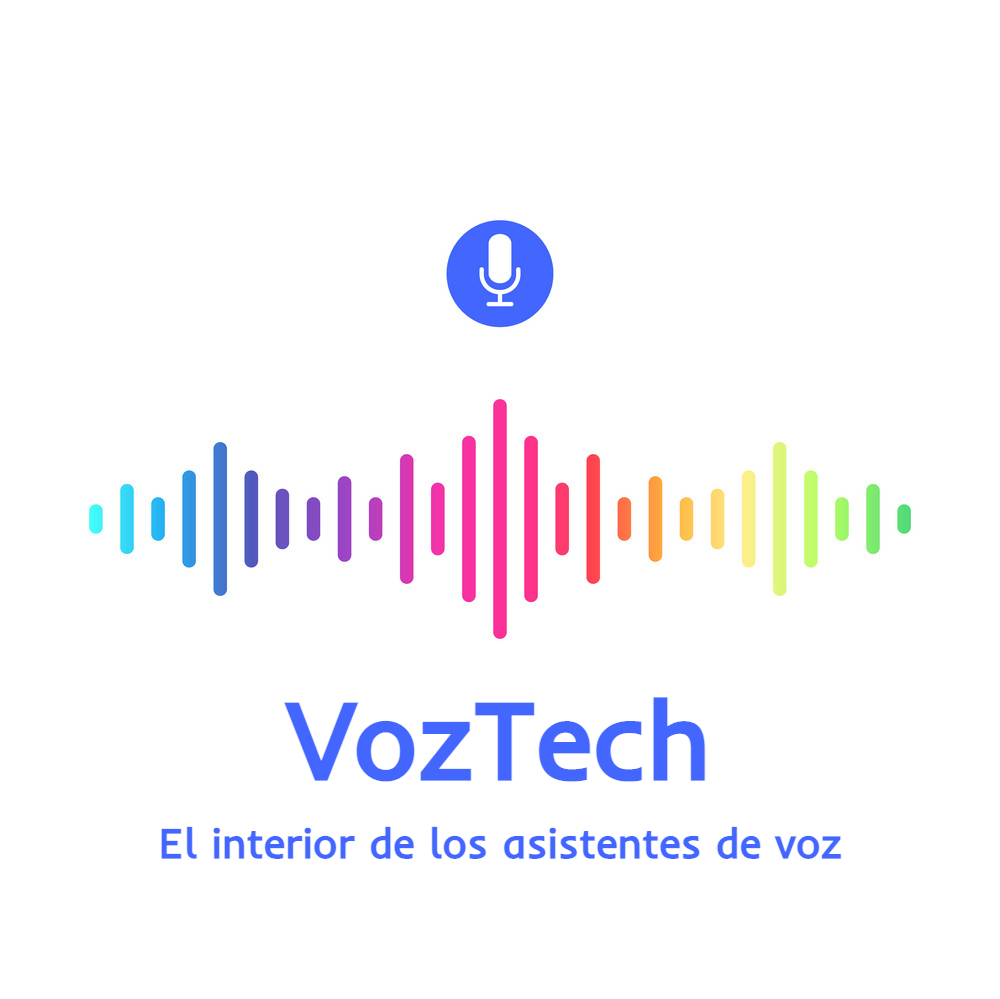
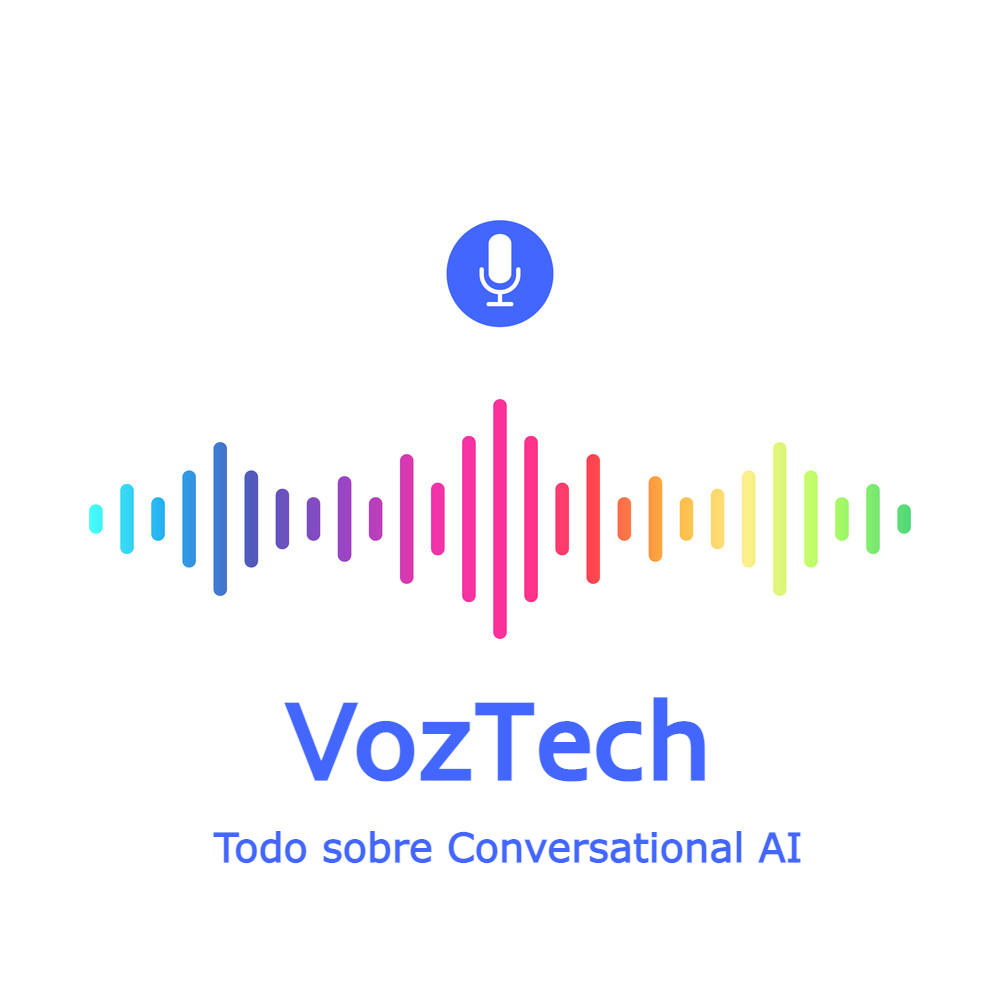
feat: new podcast

Changed region(s): [[0.155, 0.8068, 0.837, 0.8689]]

diff --git a/dialogflow/_posts/2023-01-30-voztech-2x02.md b/dialogflow/_posts/2023-01-30-voztech-2x02.md
@@ -1,0 +1,54 @@
+---
+layout: post
+title: Podcast “Voztech”. Últimas novedades sobre Alexa e introducción a Dialogflow CX
+description: >
+  El podcast tecnológico de referencia sobre Conversational AI.
+image: /assets/img/podcasts/voztech.jpg
+comments: true
+author: xavi
+kate: hl markdown;
+categories: [aog, alexa]
+tags:
+  - aog
+  - alexa
+  - dialogflow
+  - podcast
+keywords:
+  - aog
+  - google assistant
+  - google actions
+  - actions on google
+  - alexa
+  - alexa skill
+  - dialogflow
+  - dialogflowcx
+  - conversationalai
+  - podcast
+
+lang: es
+---
+{:.no_toc}
+1. this unordered seed list will be replaced by toc as unordered list
+{:toc}
+
+# Contenido
+
+En este segundo capítulo de la segunda temporada hablamos sobre las novedades dentro del mundo de Alexa y Dialogflow CX de este pasado mes. Hablamos largo y tendido de los novedades en el ecosistema Alexa:
+
+Alexa WebAPI for Games ¿Qué es? y comparación con APL.
+Alexa disponible en Inglés de Irlanda.
+Como desarrollar Alexa skills en 2023.
+Nueva Alexa Developer Console rediseñada.
+Finalmente hablamos sobre que es Dialogflow CX y cuales son las herramientas que tenemos disponibles para desarrollar en asistentes con esta tecnología;
+
+Dialogflow CX ¿Qué es?.
+Requisitos para desarrollar en esta plataforma.
+Introducción a Flows y Pages.
+NLU.
+¿Te lo vas a perder? ¡Espero que te guste este episodio!
+
+Ya está disponible en todas las plataformas de podcasts.
+
+<br/>
+<iframe src="https://anchor.fm/voztech/embed/episodes/2x02-ltimas-novedades-sobre-Alexa-e-introduccin-a-Dialogflow-CX-e1u6spf" height="200px" width="100%" frameborder="0" scrolling="no"></iframe>
+
